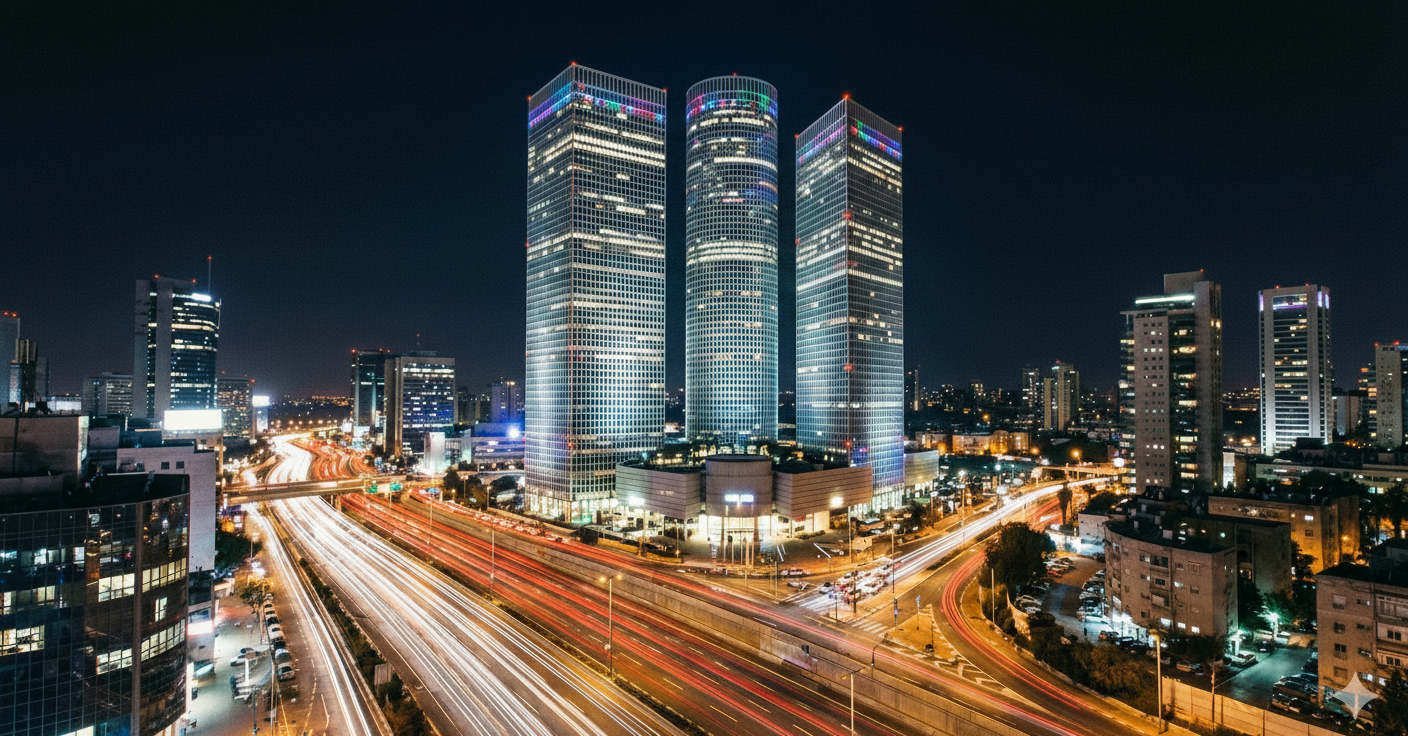
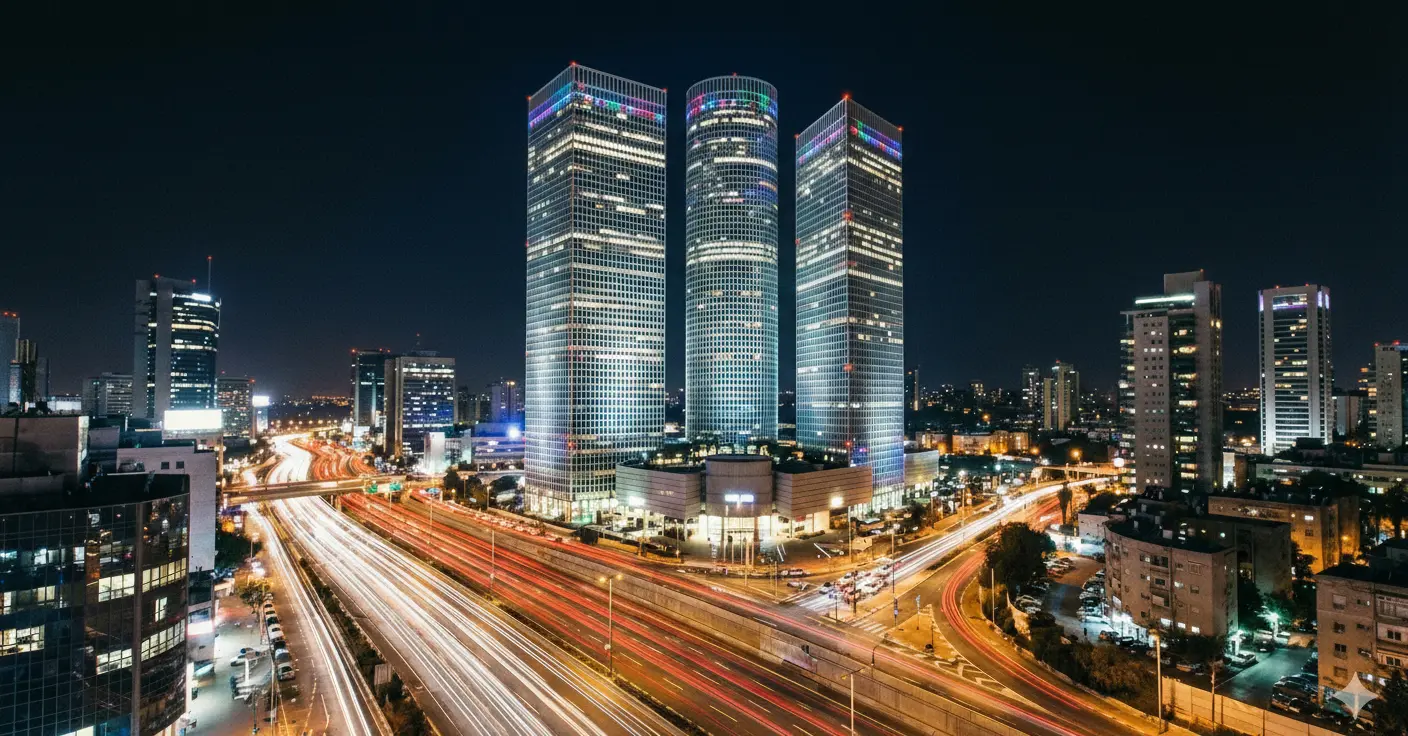
Optimize all images. Convert PNGs to WebP, compress heavy assets
Total savings ~25MB:
- 7 PNGs (2.8-3.6MB each) converted to WebP (82-372KB each)
- 10 heavy WebP assets compressed (avg 90% reduction)
- Article JPGs converted to WebP alternatives
- Removed unused old hero image
- Updated all source code references from .png to .webp

https://claude.ai/code/session_01RDxd8aDZ4P8LKzuVJoW9HN

diff --git a/src/components/SEO.tsx b/src/components/SEO.tsx
@@ -17,7 +17,7 @@ interface SEOProps {
 }
 
 const SITE_URL = 'https://mayaziv-law.com';
-const DEFAULT_IMAGE = '/lovable-uploads/ba3c3a72-3db5-4141-9459-1f85fc39e53f.png';
+const DEFAULT_IMAGE = '/lovable-uploads/ba3c3a72-3db5-4141-9459-1f85fc39e53f.webp';
 
 export const SEO = ({
   titleEn,
@@ -114,8 +114,8 @@ export const organizationSchema = {
   "name": "Maya Ziv Law",
   "description": "Attorney in Israel specializing in cross border legal matters, real estate, taxation, and estate planning.",
   "url": "https://mayaziv-law.com",
-  "logo": `${SITE_URL}/lovable-uploads/ba3c3a72-3db5-4141-9459-1f85fc39e53f.png`,
-  "image": `${SITE_URL}/lovable-uploads/ba3c3a72-3db5-4141-9459-1f85fc39e53f.png`,
+  "logo": `${SITE_URL}/lovable-uploads/ba3c3a72-3db5-4141-9459-1f85fc39e53f.webp`,
+  "image": `${SITE_URL}/lovable-uploads/ba3c3a72-3db5-4141-9459-1f85fc39e53f.webp`,
   "telephone": "+972544943597",
   "email": "info@mayaziv-law.com",
   "address": {
@@ -145,7 +145,7 @@ export const attorneySchema = {
   "name": "Maya Ziv",
   "jobTitle": "Attorney",
   "url": "https://mayaziv-law.com/about",
-  "image": `${SITE_URL}/lovable-uploads/81459920-5f87-4bcb-8430-47c1c2edc6e4.png`,
+  "image": `${SITE_URL}/lovable-uploads/81459920-5f87-4bcb-8430-47c1c2edc6e4.webp`,
   "worksFor": {
     "@type": "LegalService",
     "name": "Maya Ziv Law"
@@ -185,7 +185,7 @@ export const createArticleSchema = (article: {
     "name": "Maya Ziv Law",
     "logo": {
       "@type": "ImageObject",
-      "url": `${SITE_URL}/lovable-uploads/ba3c3a72-3db5-4141-9459-1f85fc39e53f.png`
+      "url": `${SITE_URL}/lovable-uploads/ba3c3a72-3db5-4141-9459-1f85fc39e53f.webp`
     }
   },
   "mainEntityOfPage": {
@@ -248,7 +248,7 @@ export const localBusinessSchema = {
   "@context": "https://schema.org",
   "@type": "LocalBusiness",
   "name": "Maya Ziv Law",
-  "image": `${SITE_URL}/lovable-uploads/ba3c3a72-3db5-4141-9459-1f85fc39e53f.png`,
+  "image": `${SITE_URL}/lovable-uploads/ba3c3a72-3db5-4141-9459-1f85fc39e53f.webp`,
   "@id": "https://mayaziv-law.com",
   "url": "https://mayaziv-law.com",
   "telephone": "+972544943597",

diff --git a/src/pages/RealEstate.tsx b/src/pages/RealEstate.tsx
@@ -185,7 +185,7 @@ const RealEstate = () => {
               {/* Image */}
               <div className={cn("relative transition-all duration-700 delay-300", isRTL ? "lg:col-start-2" : "lg:col-start-2", dueDiligenceAnim.isVisible ? "opacity-100 translate-x-0" : isRTL ? "opacity-0 translate-x-8" : "opacity-0 translate-x-8")}>
                 <div className="aspect-[3/4] max-w-sm mx-auto lg:mx-0 overflow-hidden rounded-sm shadow-premium">
-                  <img alt="Real estate due diligence" className="w-full h-full object-cover" src="/lovable-uploads/81459920-5f87-4bcb-8430-47c1c2edc6e4.png" loading="lazy" decoding="async" />
+                  <img alt="Real estate due diligence" className="w-full h-full object-cover" src="/lovable-uploads/81459920-5f87-4bcb-8430-47c1c2edc6e4.webp" loading="lazy" decoding="async" />
                 </div>
               </div>
             </div>
@@ -205,7 +205,7 @@ const RealEstate = () => {
               {/* Image - on left */}
               <div className={cn("relative transition-all duration-700 delay-200", isRTL ? "lg:col-start-2" : "lg:col-start-1", remoteAnim.isVisible ? "opacity-100 translate-x-0" : isRTL ? "opacity-0 translate-x-8" : "opacity-0 -translate-x-8")}>
                 <div className="aspect-[3/4] max-w-sm mx-auto lg:mx-0 overflow-hidden rounded-sm shadow-premium">
-                  <img alt="Remote real estate transaction" className="w-full h-full object-cover" src="/lovable-uploads/ba3c3a72-3db5-4141-9459-1f85fc39e53f.png" loading="lazy" decoding="async" />
+                  <img alt="Remote real estate transaction" className="w-full h-full object-cover" src="/lovable-uploads/ba3c3a72-3db5-4141-9459-1f85fc39e53f.webp" loading="lazy" decoding="async" />
                 </div>
               </div>
 

diff --git a/src/pages/OlimResidents.tsx b/src/pages/OlimResidents.tsx
@@ -110,7 +110,7 @@ const OlimResidents = () => {
               {/* Image */}
               <div className={cn("relative", isRTL ? "lg:order-2" : "lg:order-2")}>
                 <div className="aspect-[3/4] max-w-sm mx-auto lg:mx-0 overflow-hidden rounded-sm shadow-premium">
-                  <img alt={language === 'he' ? 'תכנון מס לעולים' : 'Tax positioning for Olim'} className="w-full h-full object-cover" src="/lovable-uploads/8883ef4e-474d-45c3-bf10-74ce4eabdba0.png" loading="lazy" decoding="async" />
+                  <img alt={language === 'he' ? 'תכנון מס לעולים' : 'Tax positioning for Olim'} className="w-full h-full object-cover" src="/lovable-uploads/8883ef4e-474d-45c3-bf10-74ce4eabdba0.webp" loading="lazy" decoding="async" />
                 </div>
               </div>
             </div>

diff --git a/src/pages/Taxation.tsx b/src/pages/Taxation.tsx
@@ -181,7 +181,7 @@ const Taxation = () => {
               
               {/* Image */}
               <div className={cn("relative w-full", isRTL && "order-2")}>
-                <img alt="Banking compliance" className="w-full h-64 lg:h-full object-cover shadow-lg" src="/lovable-uploads/10c05b41-4184-42a1-bdf3-3b49d016c9bb.png" loading="lazy" decoding="async" />
+                <img alt="Banking compliance" className="w-full h-64 lg:h-full object-cover shadow-lg" src="/lovable-uploads/10c05b41-4184-42a1-bdf3-3b49d016c9bb.webp" loading="lazy" decoding="async" />
               </div>
             </div>
           </div>
